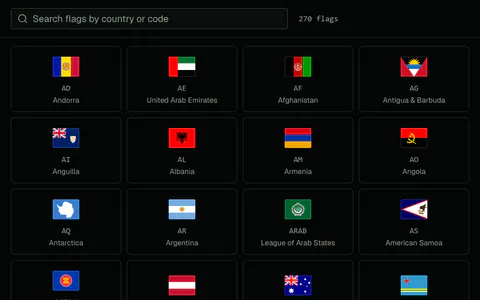
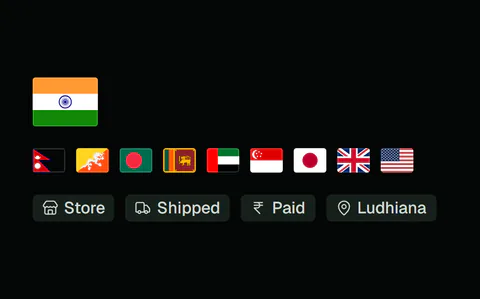
fix(website): the flags card on /ui/ leads with India, and the cards' code wraps instead of running off the edge

diff --git a/apps/website/src/app/ui/build.tsx b/apps/website/src/app/ui/build.tsx
@@ -205,15 +205,25 @@ function AppBlock({ app, n }: { app: Showcase; n: number }) {
   );
 }
 
-/** A hard part's code: its file's lines, or its ui-docs example's code, which must be in the file it names. */
+/** The most lines a hard part's card shows. */
+const TILE_LINES = 16;
+
+/**
+ * A hard part's code: its file's lines, or its ui-docs example's code, which
+ * must be in the file it names. The card wraps a line too long for it.
+ */
 function hardPartCode(part: HardPart): string {
-  if (!part.code.example) return excerpt({ file: part.code.file, parts: part.code.parts ?? [], more: part.code.more }, 14);
+  if (!part.code.example) return excerpt({ file: part.code.file, parts: part.code.parts ?? [], more: part.code.more }, TILE_LINES);
   const code = example(part.code.example).code;
   const file = fs.readFileSync(path.resolve(process.cwd(), "..", "..", part.code.file), "utf8");
   if (!file.includes(code.split("\n")[0].trim())) {
     throw new Error(`build: the example ${part.code.example} is not in ${part.code.file}`);
   }
-  return part.code.parts ? cut(code, part.code.parts, part.code.example, { more: part.code.more, max: 14 }) : code;
+  const lines = part.code.parts ? cut(code, part.code.parts, part.code.example, { more: part.code.more, max: TILE_LINES }) : code;
+  if (lines.split("\n").length > TILE_LINES) {
+    throw new Error(`build: the code of the hard part ${part.id} is longer than ${TILE_LINES} lines`);
+  }
+  return lines;
 }
 
 /** Every hard component on its own: a picture, what is hard, a few lines of its code and where it is used. */
@@ -249,7 +259,7 @@ function HardParts() {
                 </h4>
                 <p className="mt-2 text-[0.9375rem] leading-relaxed text-pretty text-fg-2 max-sm:hidden">{part.hard}</p>
                 <div className="mt-4 max-sm:hidden">
-                  <CodePanel file={part.code.file} lang="rust" source={hardPartCode(part)} size="sm" />
+                  <CodePanel file={part.code.file} lang="rust" source={hardPartCode(part)} size="sm" wrap />
                 </div>
                 <p className="mt-auto flex flex-wrap items-center justify-between gap-x-4 gap-y-1 pt-4 text-[0.8125rem] text-fg-3">
                   {part.seenIn ? (

diff --git a/apps/website/src/app/ui/showcases.ts b/apps/website/src/app/ui/showcases.ts
@@ -242,7 +242,11 @@ export const hardParts: HardPart[] = [
     hard: "A calendar, a date picker, a range picker with presets and a time picker, with locales, day rules and clock changes.",
     image: "tile-dates",
     docs: "/docs/ui/dates/",
-    code: { file: "apps/ui-docs/src/examples/dates.rs", example: "date-range-picker/presets" },
+    code: {
+      file: "apps/ui-docs/src/examples/dates.rs",
+      example: "date-range-picker/presets",
+      parts: [{ from: 'DateRangePicker::new("from", "to")' }, { from: ".presets([", to: "])" }, { from: '.title("Closed")' }],
+    },
   },
   {
     id: "phone",
@@ -259,7 +263,7 @@ export const hardParts: HardPart[] = [
     image: "tile-flags",
     docs: "/docs/ui/flags/",
     seenIn: "store",
-    code: { file: "apps/ui-docs/src/examples/icons.rs", example: "flags/usage" },
+    code: { file: "apps/ui-docs/src/examples/icons.rs", example: "flags/with-icons" },
   },
   {
     id: "command",

diff --git a/apps/website/scripts/showcase-images.ts b/apps/website/scripts/showcase-images.ts
@@ -209,10 +209,12 @@ const captures: Capture[] = [
   },
   {
     key: "tile-flags",
-    alt: "The flag gallery: flags of countries and organisations, each with its code and name",
-    url: () => `${SITE}/ui-preview/flags/all.html`,
-    viewport: { width: 720, height: 450 },
-    scale: 2,
+    alt: "India's flag first and largest; under it the flags of Nepal, Bhutan, Bangladesh, Sri Lanka, the UAE, Singapore, Japan, the UK and the US; and badges with icons for a store, shipped, paid in rupees and Ludhiana",
+    url: () => `${SITE}/ui-preview/flags/with-icons.html`,
+    viewport: { width: 640, height: 400 },
+    // Close around the example and drawn at 3x, so the flags show large and sharp on the card.
+    scale: 3,
+    clip: async (page) => framed(await around(page, ['[data-slot="flag"]', '[data-slot="badge"]']), 28, 1.6, { width: 640, height: 400 }),
     widths: [480, 960],
   },
   {

diff --git a/apps/website/src/components/showcase/code-panel.tsx b/apps/website/src/components/showcase/code-panel.tsx
@@ -43,7 +43,10 @@ export async function CodePanel({
       <div
         className={cn(
           "scroll-thin [&_pre]:text-[0.75rem] [&_pre]:leading-[1.7]",
-          size === "sm" ? "[&_.line]:px-4 [&_pre]:py-3" : "sm:[&_pre]:text-[0.8125rem]",
+          size === "md" && "sm:[&_pre]:text-[0.8125rem]",
+          size === "sm" && "[&_pre]:py-3",
+          // A narrow card: 1 rem each side, and room for the hanging indent of a wrapped line.
+          size === "sm" && (wrap ? "[&_.line]:pr-4 [&_.line]:pl-[calc(1rem+2ch)]" : "[&_.line]:px-4"),
         )}
         // Shiki's output for a string that lives in this repository, highlighted at build time
         // (Shiki escapes the code it highlights).
